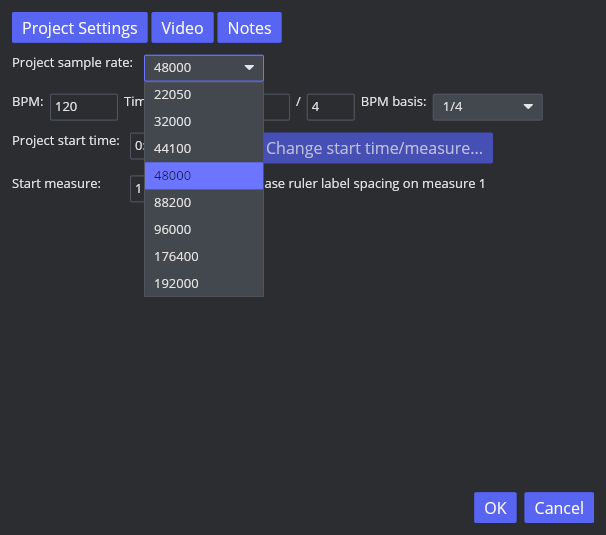
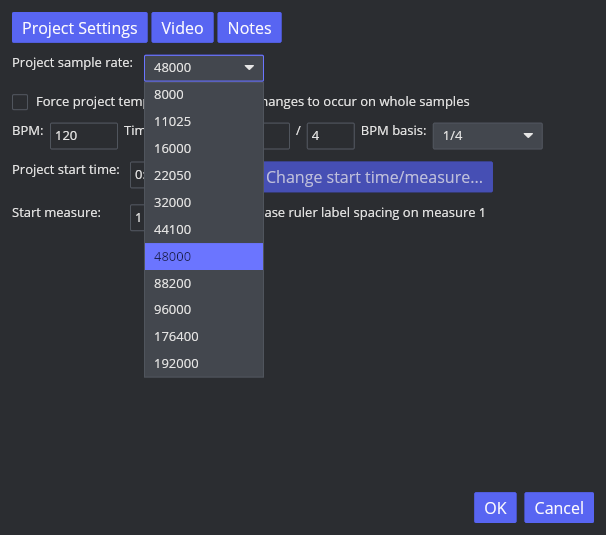
feat(project-settings): match native sample-rate presets

diff --git a/crates/aaadaw/src/app/project_settings.rs b/crates/aaadaw/src/app/project_settings.rs
@@ -13,8 +13,8 @@ pub(crate) enum Tab {
     Notes,
 }
 
-const COMMON_PROJECT_SAMPLE_RATES: [u32; 8] = [
-    22_050, 32_000, 44_100, 48_000, 88_200, 96_000, 176_400, 192_000,
+const COMMON_PROJECT_SAMPLE_RATES: [u32; 11] = [
+    8_000, 11_025, 16_000, 22_050, 32_000, 44_100, 48_000, 88_200, 96_000, 176_400, 192_000,
 ];
 
 fn project_sample_rate_options(current: u32) -> Vec<u32> {
@@ -835,7 +835,13 @@ mod tests {
         app.redo();
         assert_eq!(app.project.settings().sample_rate(), 96_000);
         assert_eq!(app.project.audio_items()[0].start_sample(), 48_000);
-        assert!(project_sample_rate_options(44_100).contains(&44_100));
+        assert_eq!(
+            project_sample_rate_options(44_100),
+            vec![
+                8_000, 11_025, 16_000, 22_050, 32_000, 44_100, 48_000, 88_200, 96_000, 176_400,
+                192_000,
+            ]
+        );
     }
 
     #[test]

diff --git a/docs/reaper-parity/project-settings-general.md b/docs/reaper-parity/project-settings-general.md
@@ -6,12 +6,12 @@
 
 本页现编辑起始 BPM、起始拍号、有符号显示小节号、BPM basis、尺标标签间隔基准、有符号 Project start time，以及显式工程采样率和 whole-sample tempo-map 选项。Project start time 是显示时钟偏移，不移动音频采样位置或改变小节/拍换算；它平移时间线时钟、Transport 时钟与 Item Properties 的 Time/H:M:S:F 绝对位置显示。`Change start time/measure...` 菜单提供原厂前四项：将当前编辑光标设为 `0:00`、重置工程起始时间、将当前光标最近的小节设为小节 1、重置工程起始小节；第五项允许工程起点处于 fractional-frame offset，默认关闭并显示勾选状态。Up/Down 循环、Enter 执行、Escape 关闭。菜单命令只更新 General 草稿，仍由 OK 统一提交，Cancel 丢弃。OK 将所有有变化的 General 字段通过单一事务提交；Cancel 丢弃草稿。旧工程会迁移出默认关闭的 fractional-frame 与 whole-sample 字段，当前 schema 为 34。
 
-General 现在也提供常用显式工程采样率选择。`SetProjectSampleRate` 会在单一工程动作中按采样率比例换算音频 Item 的位置/长度和 fade、轨道音量与 CLAP 参数自动化的位置，并重算 TempoMap 的 sample anchor；媒体源偏移仍按源文件采样率计。事务期间播放图会标脏，在下次启动时重建，Transport/playback 起点也会同步换算。Undo/Redo 精确恢复转换前后值，工程快照沿用既有 sample-rate 字段，无需新增 schema。自动化点在新速率下无法保持唯一位置或工程内容超出时间线可表示范围时，整个 Action 会失败，不会静默丢点。Xvfb GUI 实测选项列表、选择 44.1 kHz 后重开读取，以及 Edit > Undo 恢复原 48 kHz；[四张 AAADAW 截图](../verification/reaper-parity/project-settings-ui/general-project-sample-rate.png)记录默认、候选速率、应用后和撤销后状态。
+General 现在提供原厂下拉框的 11 个显式工程采样率：8,000、11,025、16,000、22,050、32,000、44,100、48,000、88,200、96,000、176,400、192,000 Hz；当前非预设值仍作为额外选项显示。原厂菜单见[采样率列表截图](../verification/reaper-parity/project-settings-ui/reaper-native-sample-rate-options.png)。`SetProjectSampleRate` 会在单一工程动作中按采样率比例换算音频 Item 的位置/长度和 fade、轨道音量与 CLAP 参数自动化的位置，并重算 TempoMap 的 sample anchor；媒体源偏移仍按源文件采样率计。事务期间播放图会标脏，在下次启动时重建，Transport/playback 起点也会同步换算。Undo/Redo 精确恢复转换前后值，工程快照沿用既有 sample-rate 字段，无需新增 schema。自动化点在新速率下无法保持唯一位置或工程内容超出时间线可表示范围时，整个 Action 会失败，不会静默丢点。Xvfb GUI 实测选项列表、选择 44.1 kHz 后重开读取，以及 Edit > Undo 恢复原 48 kHz；[四张 AAADAW 截图](../verification/reaper-parity/project-settings-ui/general-project-sample-rate.png)记录默认、候选速率、应用后和撤销后状态。
 
 `Force project tempo/time signature changes to occur on whole samples` 已通过 Core Action 接入 General 草稿、事务、Undo/Redo、TempoMap 锚点和 schema 34。启用后重算 tempo-map 时每个 tempo point 连续 sample anchor 会取整到最近的工程样本；44.1 kHz、120 BPM、PPQ 960 下 tick 1 的 anchor 从 22.96875 变为 23.0。原厂 REAPER 工程对照显示 `SAMPLERATE` 三字段分别包含 44.1 kHz、project-rate enabled 与 whole-sample enabled：fresh factory 为 `44100 0 0`，仅开启工程采样率为 `44100 1 0`，两个选项都开启为 `44100 1 1`。参考截图见[factory 默认](../verification/reaper-parity/project-settings-ui/reaper-native-general-factory.png)和[whole-sample checked](../verification/reaper-parity/project-settings-ui/reaper-native-general-whole-samples-checked.png)；AAADAW 的[勾选状态](../verification/reaper-parity/project-settings-ui/general-whole-sample-checked.png)与[撤销后恢复](../verification/reaper-parity/project-settings-ui/general-whole-sample-after-undo.png)也已在 X11 实窗复核。原厂 UI marker-edit snapping 与 meter-marker 的具体边界效果仍待进一步确认；本实现不把该设置描述成完整 REAPER snapping 行为。
 
 速度须为有限正数，拍号须是当前 PPQ 可表示的正整数，小节号接受有符号 32 位整数；原厂与 AAADAW 实测 0 和 -2 均可保存。时间输入支持带符号的 `m:ss.mmm` 与 `h:mm:ss.mmm`；分钟/秒字段要求小于 60，非法值保持窗口与草稿，且不会部分应用其他 General 项。BPM basis 提供原厂六个选项：1/8、1/4、1/2、1/8 dotted、1/4 dotted、1/2 dotted；默认 1/4。显示 BPM 数字不变，所选音符值决定每分钟的拍数，因此会改变刻度与音频时间之间的换算。合法联合提交可一次 Undo。负小节号也贯通 Beats 位置格式化/解析与时间线标尺。
 
-有限控制集反映已接入的项目状态，不虚列不可用控件。fractional-frame flag 的默认值和 RPP `TIMEMODE` 存储已核实；精确 flag 对视频帧与 H:M:S:F 的对齐影响仍待测量。采样率当前只有显式速率选择，还缺原厂默认关闭的 project-rate checkbox、hardware-default 联动和完整预设列表；factory REAPER 当前配置为 44.1 kHz 且未强制，AAADAW 新工程目前为 48 kHz。project/track/item timebase、MIDI timebase、playback/render resampling、pitch shift mode/parameters 仍待实现，它们依赖采样时钟、timebase 和工程配置。新配置 REAPER ReaScript 探针还确认工程 item timebase 代码值 1（Beats: position, length, rate）、timebase flags 0、项目起点偏移 0、起始 120 BPM 与 4/4。其余屏幕值见[数值记录](project-settings-general-reference.json)。视频页显示预设值与非原厂输入仍待实施；Media、Advanced、模板和其余设置页继续按 P10 推进。
+有限控制集反映已接入的项目状态，不虚列不可用控件。fractional-frame flag 的默认值和 RPP `TIMEMODE` 存储已核实；精确 flag 对视频帧与 H:M:S:F 的对齐影响仍待测量。采样率已实现显式工程速率和原厂完整预设列表，但还缺原厂默认关闭的 project-rate checkbox 与 hardware-default 联动；factory REAPER 当前配置为 44.1 kHz 且未强制，AAADAW 新工程目前为 48 kHz。project/track/item timebase、MIDI timebase、playback/render resampling、pitch shift mode/parameters 仍待实现，它们依赖采样时钟、timebase 和工程配置。新配置 REAPER ReaScript 探针还确认工程 item timebase 代码值 1（Beats: position, length, rate）、timebase flags 0、项目起点偏移 0、起始 120 BPM 与 4/4。其余屏幕值见[数值记录](project-settings-general-reference.json)。视频页显示预设值与非原厂输入仍待实施；Media、Advanced、模板和其余设置页继续按 P10 推进。
 
 REAPER 原厂 General 验证设置 `0:10.000` 将 Transport 与尺标时间平移 10 秒但不改变小节，负偏移 `-0:05.000` 也被接受。真实 AAADAW X11 验证默认值、编辑 `96/3/8/-2`、basis 1/8、偏移 `-0:05.000` 并关闭 ruler-spacing 时工程仍保持原值；OK 后重开读取草稿，Transport/尺标时钟显示负 5 秒，关闭窗口后一次 Ctrl+Z 还原全部 General 设置。Start measure=0 可提交并重开；无效时间 `0:60.000` 点 OK 后窗口保留且工程不变，事务测试也验证不会部分提交速度/拍号。时间偏移格式/反解析、Item Properties Time/H:M:S:F 偏移与逆向输入、帧率换算、schema 31 默认迁移及存储 round-trip 均有回归。六项 basis 选项与原厂顺序相同；相关时钟换算与 tempo ramp sample/tick 往返由 Core 覆盖。证据截图仅来自 AAADAW：[默认](../verification/reaper-parity/project-settings-ui/general-default.png)、[六项 BPM basis](../verification/reaper-parity/project-settings-ui/general-bpm-basis-options.png)、[草稿](../verification/reaper-parity/project-settings-ui/general-draft.png)、[确认后](../verification/reaper-parity/project-settings-ui/general-after-apply.png)、[ruler-spacing 关闭草稿](../verification/reaper-parity/project-settings-ui/general-ruler-spacing-off.png)、[关闭后的标尺](../verification/reaper-parity/project-settings-ui/general-ruler-spacing-off-main.png)、[撤销后](../verification/reaper-parity/project-settings-ui/general-real-undo.png)、[零小节](../verification/reaper-parity/project-settings-ui/general-zero-start-measure.png)、[拒绝无效时间](../verification/reaper-parity/project-settings-ui/general-invalid-result.png)。本阶段不提交 REAPER 原厂截图或工程。

diff --git a/docs/reaper-parity/progress.md b/docs/reaper-parity/progress.md
@@ -226,4 +226,8 @@ REAPER 7.82 原厂菜单确认第五项 `Allow project start to be at a fraction
 
 在隔离 REAPER 7.82 Linux Default 7 工程中对比了 `SAMPLERATE` 的三个字段：factory `44100 0 0`，仅 project sample rate 开启为 `44100 1 0`，whole-sample 也开启为 `44100 1 1`。General 新增同名勾选框；Core `SetForceTempoChangesToWholeSamples` 会在开关变更后重算 TempoMap anchor，启用时将 tempo point 的连续样本位置取整到工程 sample。44.1 kHz / 120 BPM / PPQ 960 下 tick 1 anchor 从 22.96875 变为 23.0。schema 34 新增布尔列，旧 schema 默认关闭；Core、Storage、UI 分别覆盖转换、迁移 round-trip 与事务 Undo/Redo。
 
-三个专项测试通过。Xvfb 真实窗口验证 checkbox 草稿、Apply 与 Undo 后状态恢复，截图见 [勾选](../verification/reaper-parity/project-settings-ui/general-whole-sample-checked.png)和[撤销后](../verification/reaper-parity/project-settings-ui/general-whole-sample-after-undo.png)；原厂 General 默认与勾选参考截图也已存档。原厂鼠标 marker-edit snapping、meter-marker 对该 flag 的具体效果仍需进一步测量；project sample-rate factory enable/hardware-default 语义、完整速率列表、timebase、resampling/pitch 和其余页面继续未完成。
+三个专项测试通过。Xvfb 真实窗口验证 checkbox 草稿、Apply 与 Undo 后状态恢复，截图见 [勾选](../verification/reaper-parity/project-settings-ui/general-whole-sample-checked.png)和[撤销后](../verification/reaper-parity/project-settings-ui/general-whole-sample-after-undo.png)；原厂 General 默认与勾选参考截图也已存档。原厂鼠标 marker-edit snapping、meter-marker 对该 flag 的具体效果仍需进一步测量；project sample-rate factory enable/hardware-default 语义、timebase、resampling/pitch 和其余页面继续未完成。
+
+### 2026-10-12 原厂工程采样率预设
+
+在 REAPER 7.82 General 原厂采样率下拉菜单中实测到 11 个选项：8,000、11,025、16,000、22,050、32,000、44,100、48,000、88,200、96,000、176,400 和 192,000 Hz。AAADAW 的 General 选择器已补齐原厂顺序；当前工程速率若不在预设中，仍额外显示该值以免设置窗口丢失当前状态。参考列表截图已提交；focused UI/Core 测试覆盖原厂完整顺序。project-rate enabled 与 hardware-default 行为另属后续音频时钟工作。
